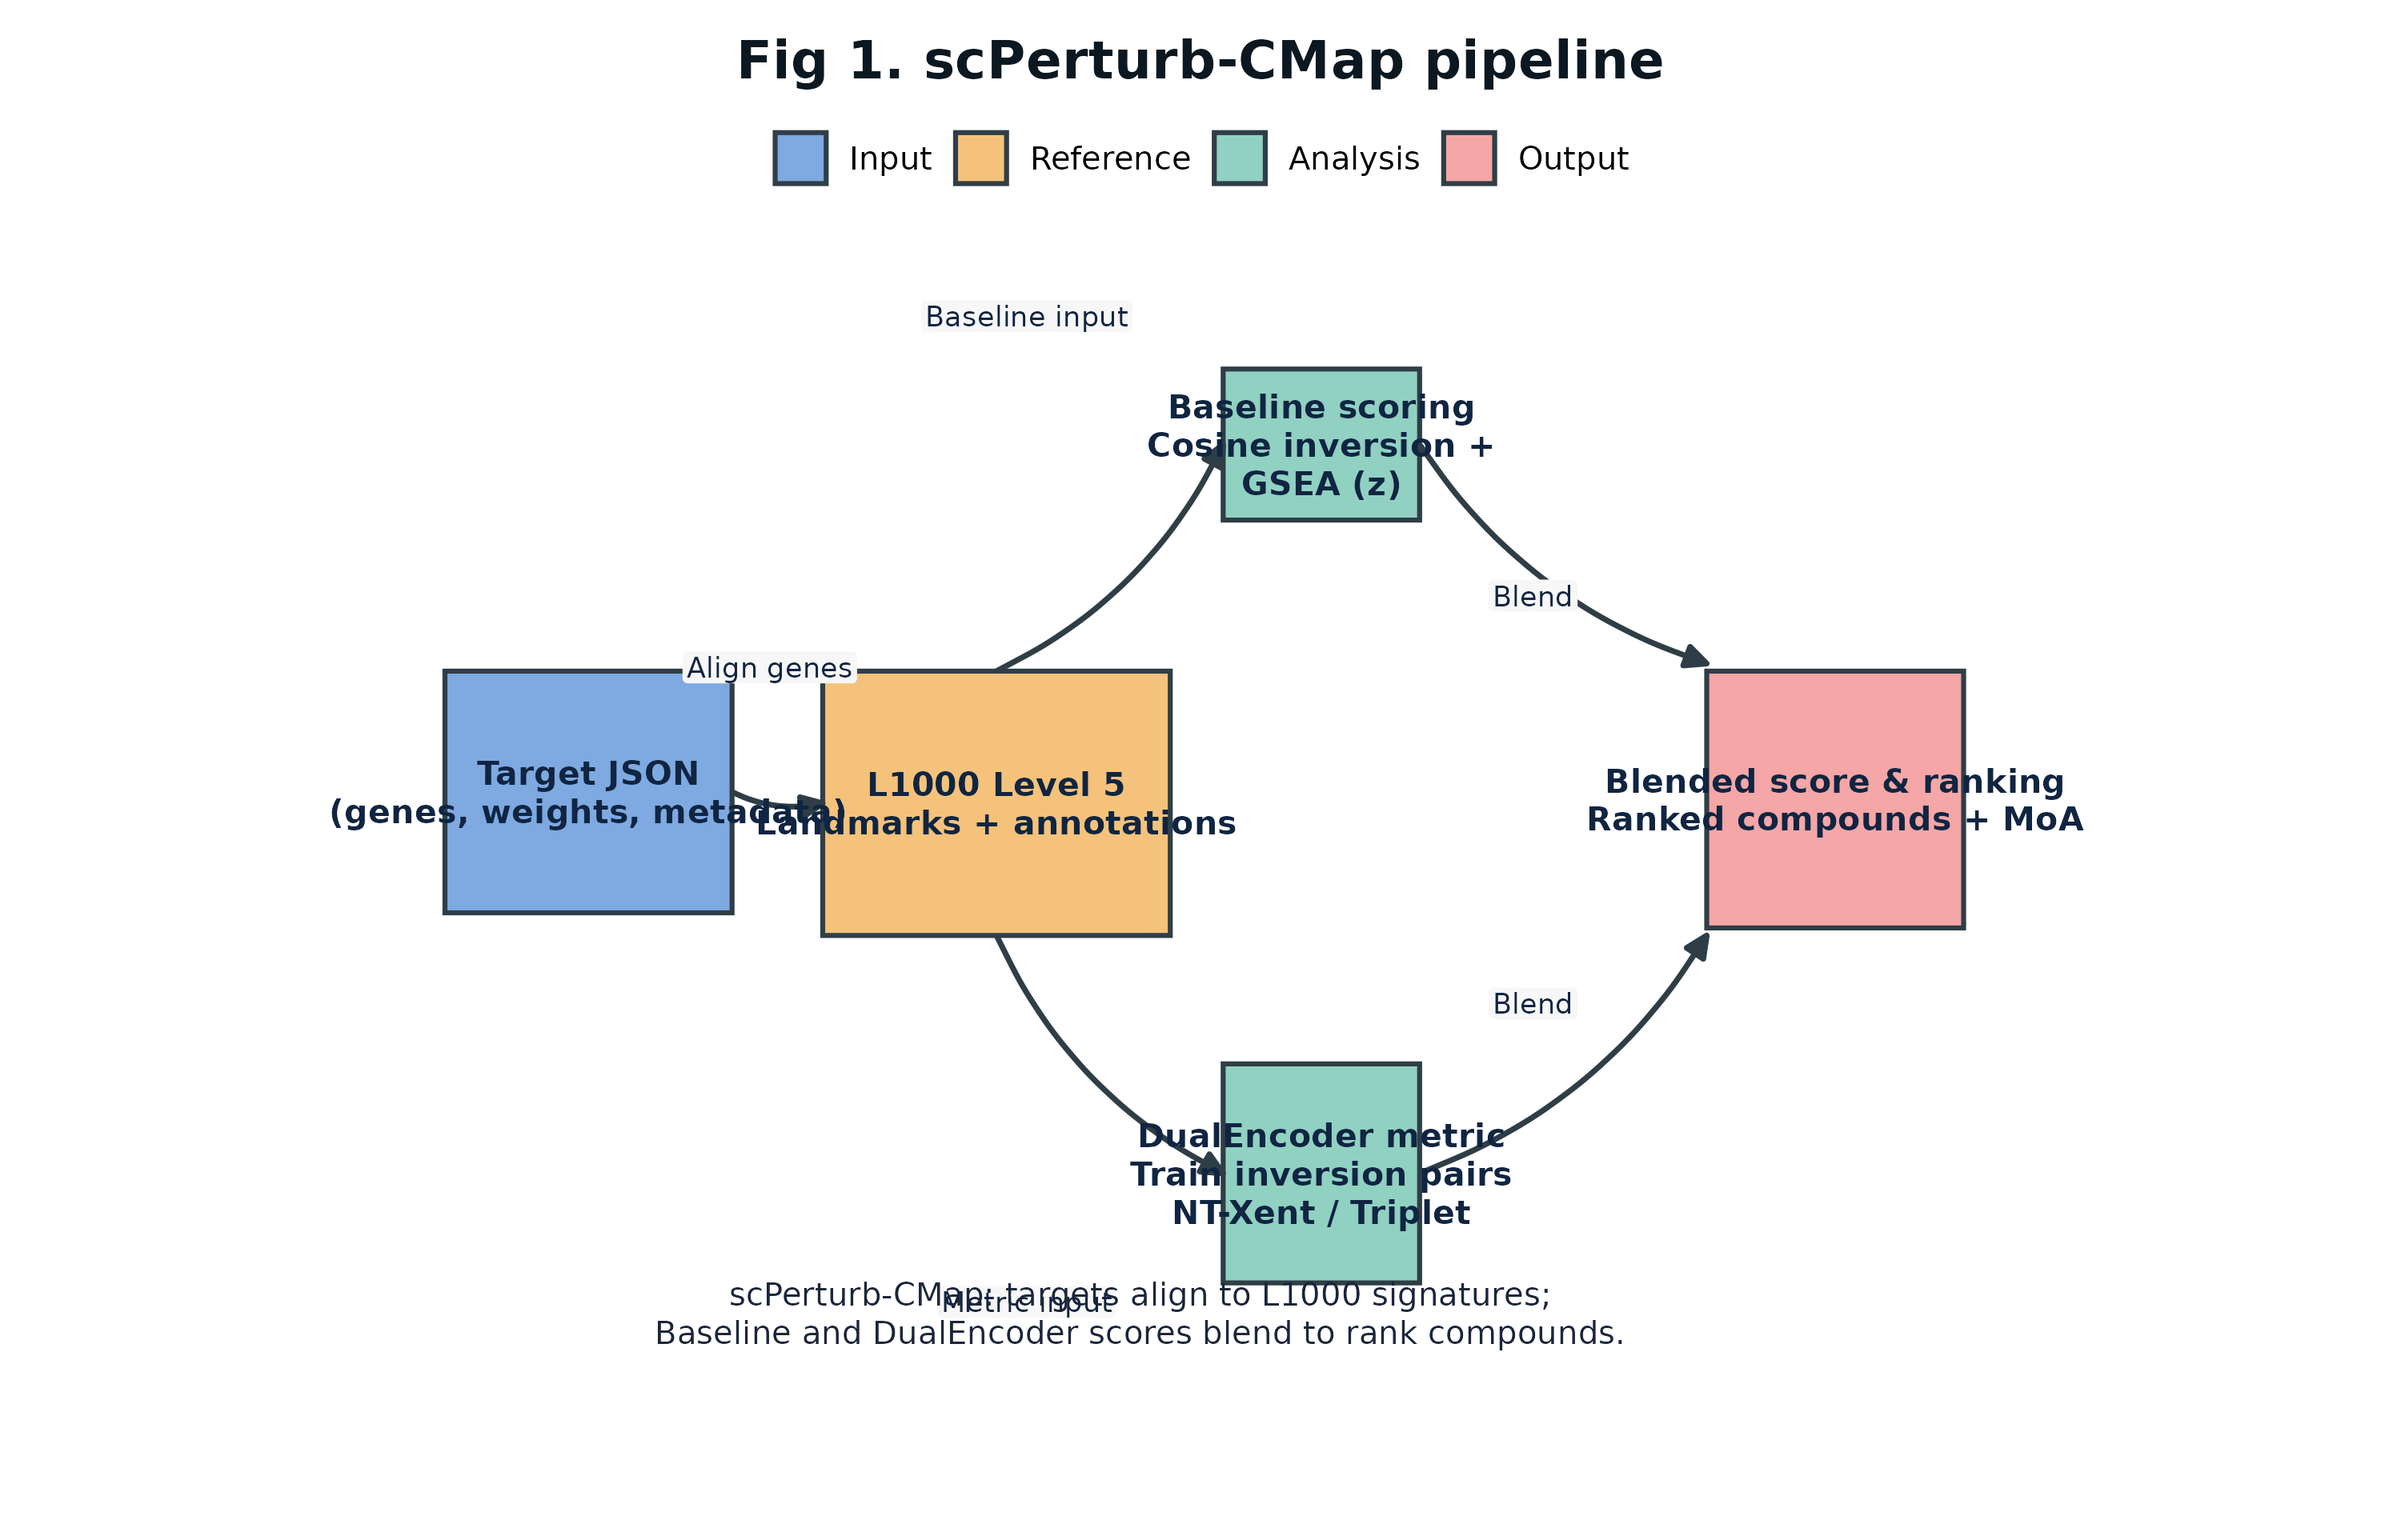
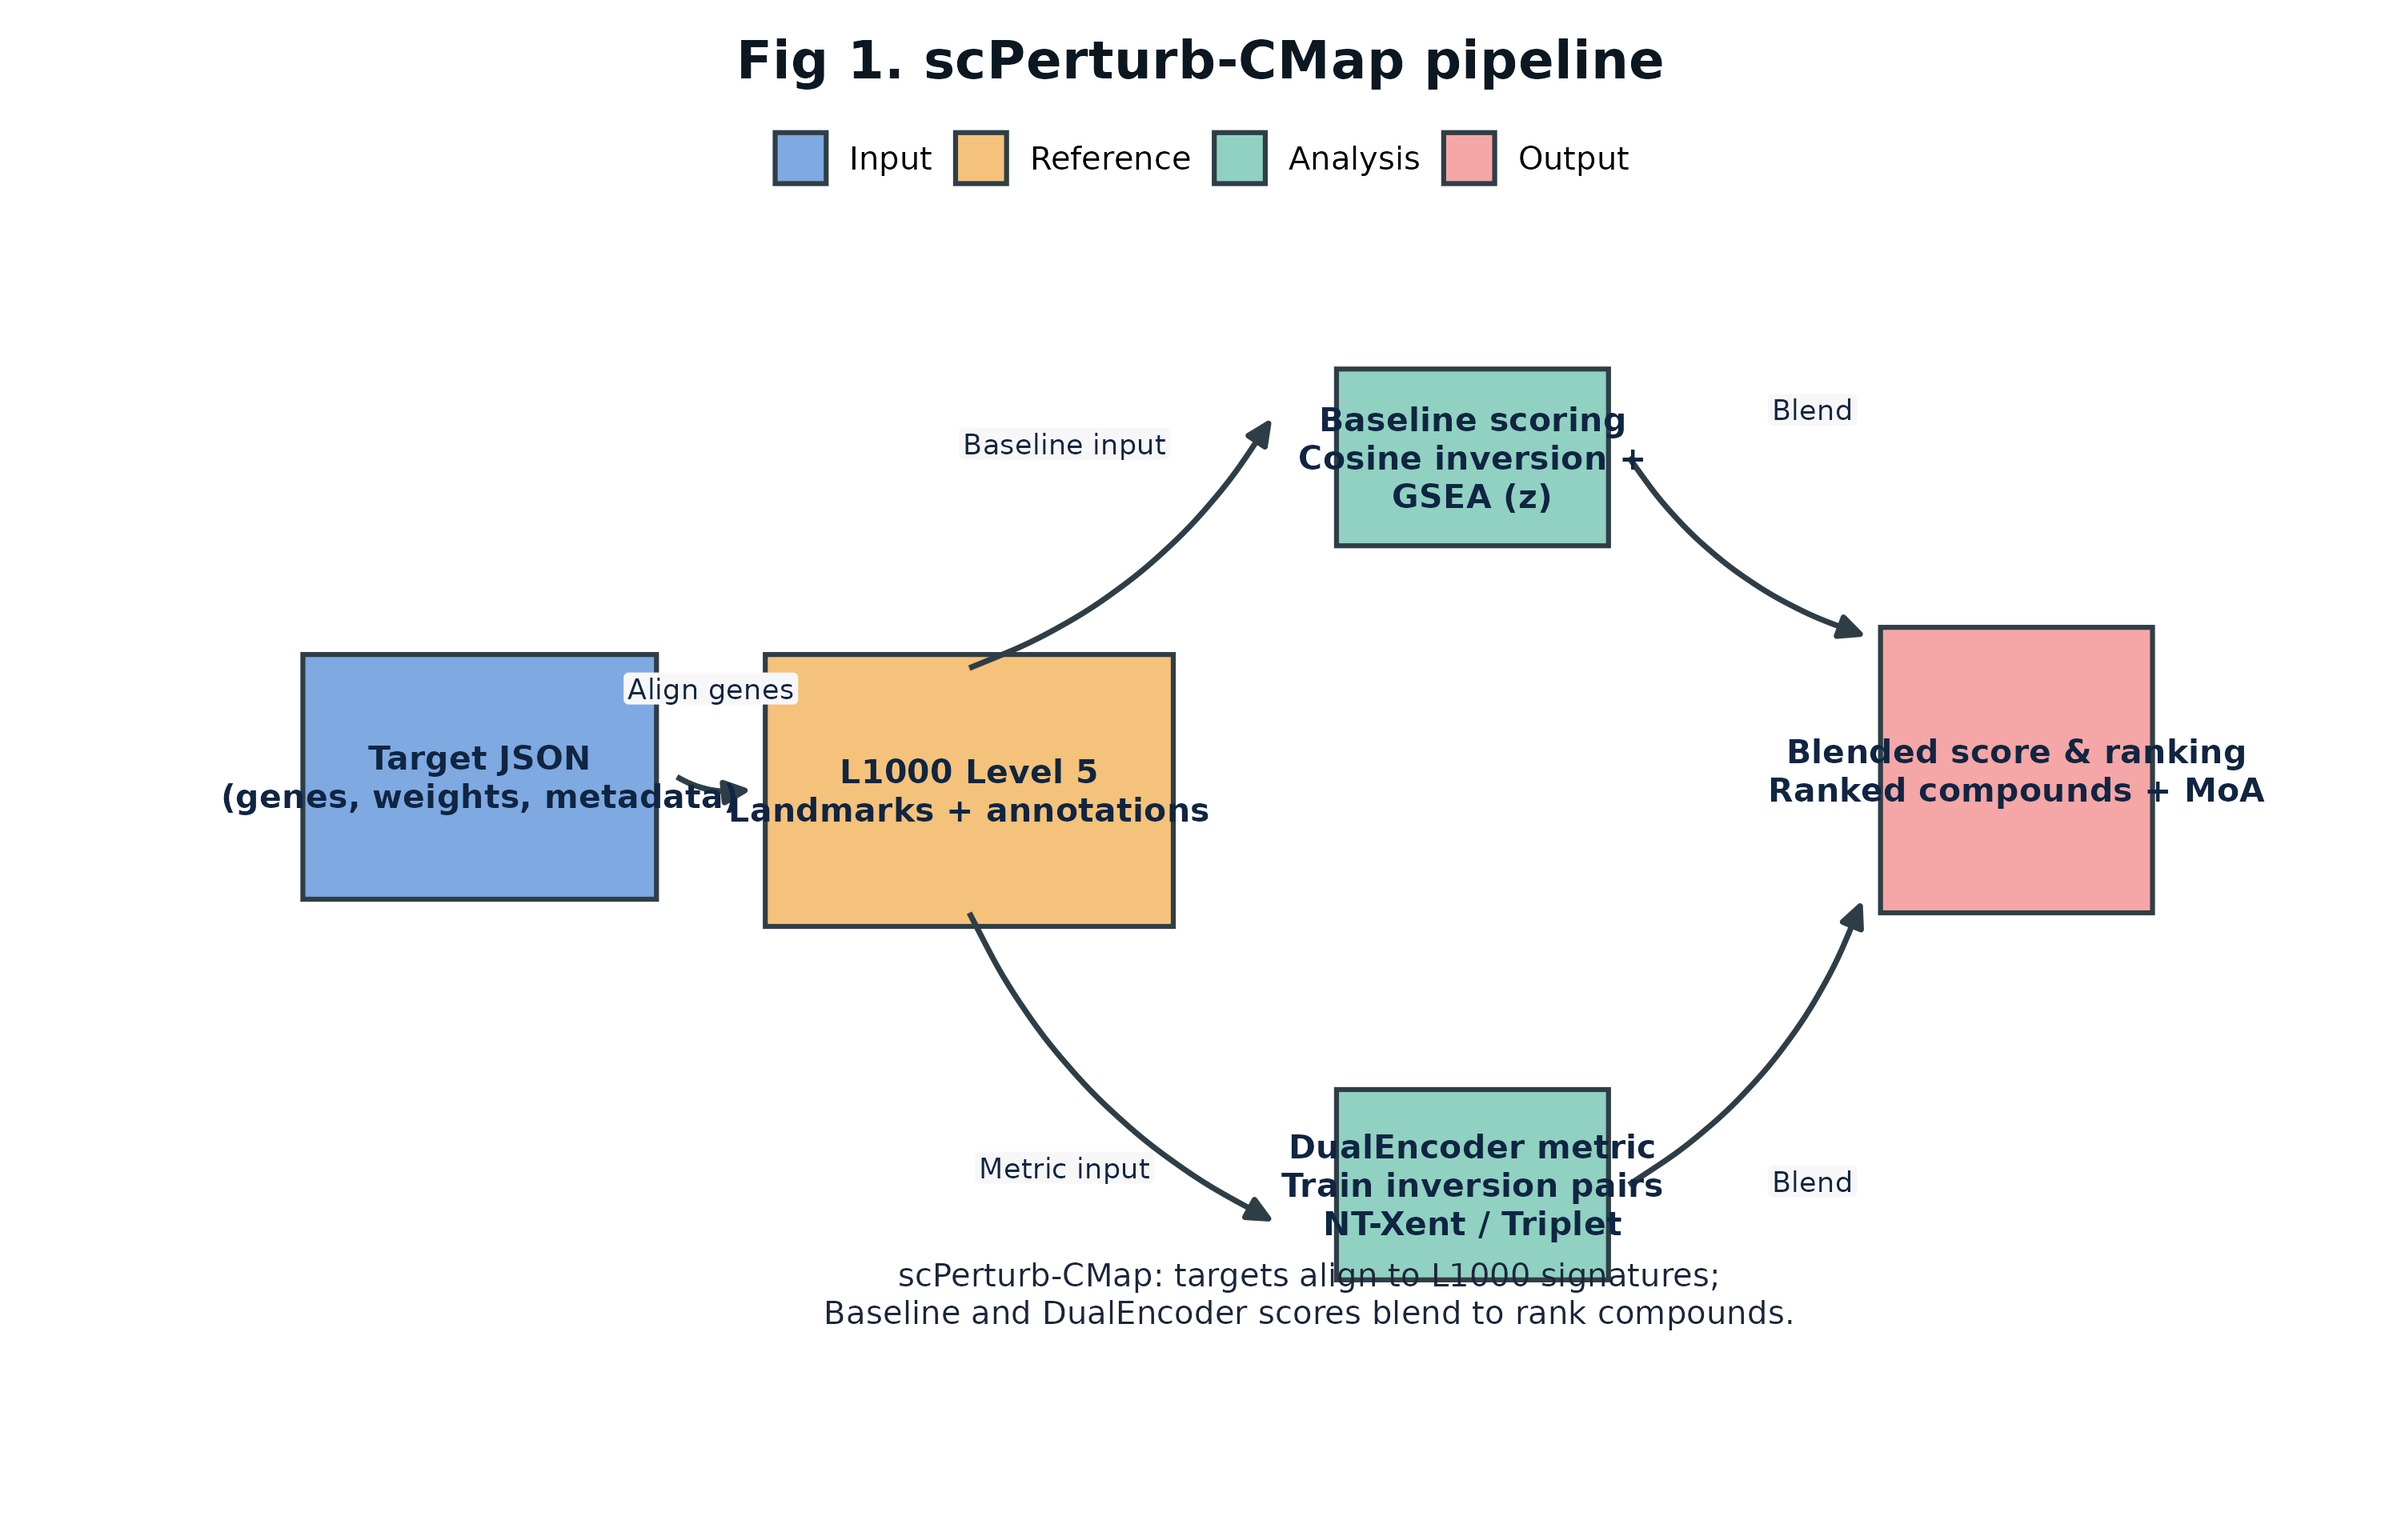
Figure update

diff --git a/README.md b/README.md
@@ -37,15 +37,16 @@ The package ships with:
 3. [Installation](#installation)
 4. [Quickstart](#quickstart)
 5. [End-to-End Workflow](#end-to-end-workflow)
-6. [Repository Layout](#repository-layout)
-7. [Command-Line Essentials](#command-line-essentials)
-8. [Training on Real Inversion Pairs](#training-on-real-inversion-pairs)
-9. [Preparing LINCS L1000 Data](#preparing-lincs-l1000-data)
-10. [Streamlit UI](#streamlit-ui)
-11. [Acceptance & Quality Gates](#acceptance--quality-gates)
-12. [Development Workflow](#development-workflow)
-13. [HPC Notes](#hpc-notes)
-14. [License](#license)
+6. [Reference Figures](#reference-figures)
+7. [Repository Layout](#repository-layout)
+8. [Command-Line Essentials](#command-line-essentials)
+9. [Training on Real Inversion Pairs](#training-on-real-inversion-pairs)
+10. [Preparing LINCS L1000 Data](#preparing-lincs-l1000-data)
+11. [Streamlit UI](#streamlit-ui)
+12. [Acceptance & Quality Gates](#acceptance--quality-gates)
+13. [Development Workflow](#development-workflow)
+14. [HPC Notes](#hpc-notes)
+15. [License](#license)
 
 ---
 
@@ -64,6 +65,10 @@ Supported data contracts:
 - **Target** (`TargetSignature` JSON): `{"genes": [...], "weights": [...], "metadata": {...}}`
 - **LINCS long** (Parquet/CSV/TSV): `signature_id, compound, cell_line, gene_symbol, score` (+ optional `moa, target, replicate_id`, etc.)
 - **Results** (Parquet/CSV): `signature_id, compound, cell_line, score, moa?, target?`
+
+![Fig 1. scPerturb-CMap pipeline](figs/fig1_system_diagram_r.png)
+
+*Figure 1. Single-cell targets align to curated L1000 signatures before the baseline and DualEncoder branches blend into a ranked compound readout.*
 
 ---
 
@@ -144,6 +149,28 @@ make test
 4. **(Optional) Train the metric model** – Supply curated inversion pairs via `scperturb-cmap train` (Hydra config under `configs/train.yaml`) to refine the DualEncoder checkpoint written to `workspace/artifacts/`.
 5. **Explore interactively** – Launch `make ui` to open the Streamlit dashboard, re-use existing targets, and export ranked hypotheses with MOA enrichment plots for bench scientists.
 6. **Validate & automate** – Use `make acceptance` for smoke tests, `make lint`/`make test` in CI, and the HPC scripts under `scripts/slurm/` for batch jobs.
+
+---
+
+## Reference Figures
+
+**Recall@50 by cell line**
+
+![Fig 2. Recall@50 by cell line](figs/fig2_recall_by_cell_line_r.png)
+
+*Figure 2. Baseline connectivity (blue) versus the blended metric model (orange) across reference cell lines with 95% confidence intervals.*
+
+**MoA enrichment landscape**
+
+![Fig 3. MoA enrichment bar chart](figs/fig3_moa_enrichment_r.png)
+
+*Figure 3. Mechanism-of-action enrichment highlighting up- and down-regulated classes by log2 change and significance.*
+
+**Case study ranking trace**
+
+![Fig 4. Case study ranked compounds](figs/fig4_case_study_rank_plot_r.png)
+
+*Figure 4. Blended connectivity scores for the top-ranked compounds in the NSCLC case study, with annotations for the leading hits.*
 
 ---
 
